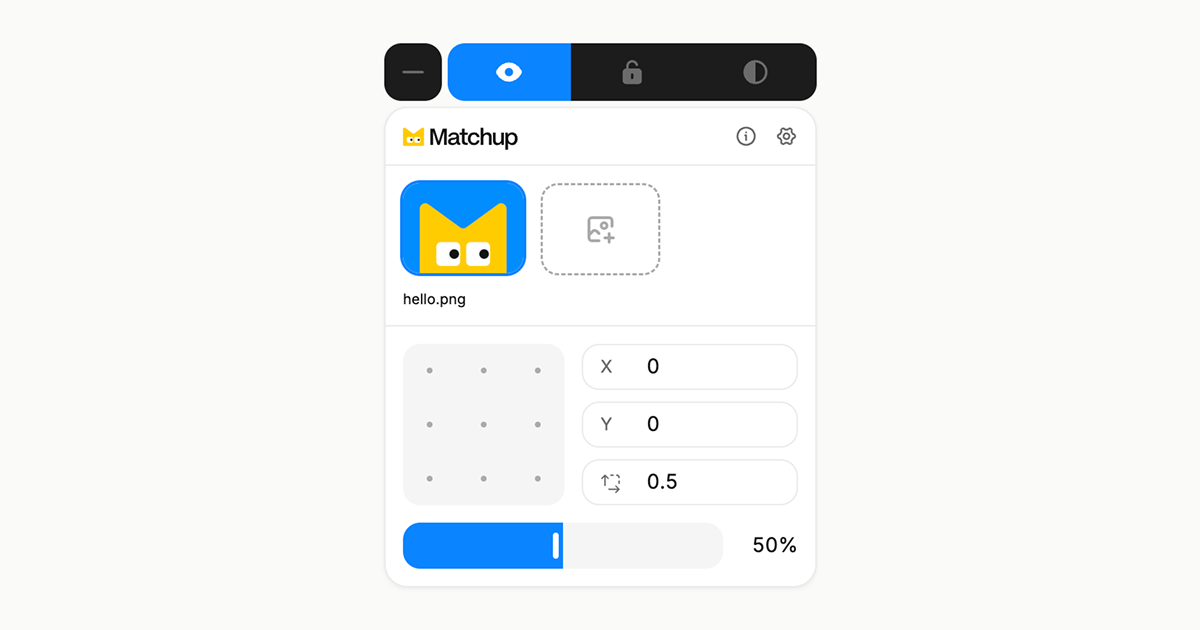
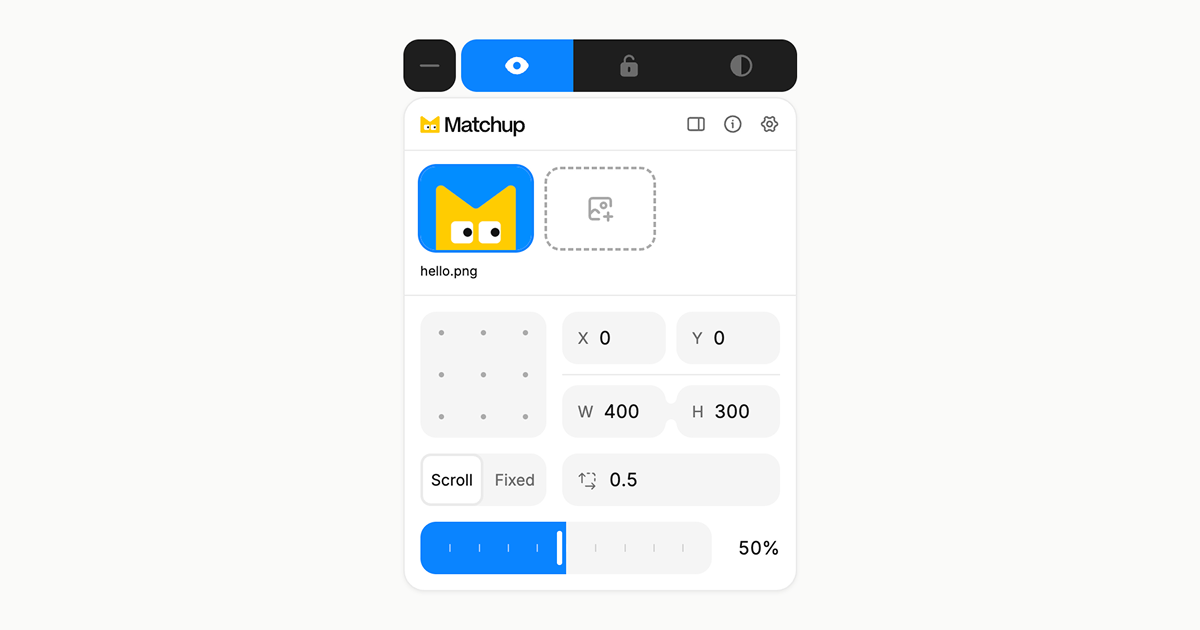
🔖 release 1.1.0 (#7)

diff --git a/README.md b/README.md
@@ -17,11 +17,12 @@ Matchup is a simple tool for comparing your design with your website. Drop your 
 
 - **Supports** `PNG`, `JPG`, `WebP`, and `SVG`
 - **Fine-tune** position, size, scale, and opacity
-- **Scroll** the overlay with the page, or fix it to the window
 - **Snap** to 9 positions
 - **Spot** pixel differences
 - **Lock or hide** layers
 - **Reorder** layers
+- **Scroll** the overlay with the page, or fix it to the window
+- **Side panel** for smaller screens
 - **Customize** your shortcuts
 
 ### Shortcuts
